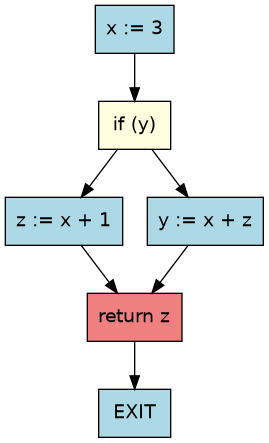
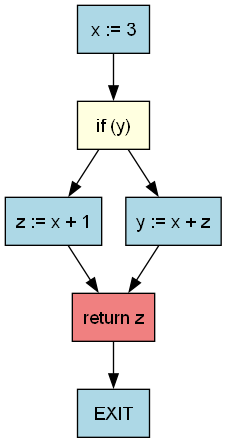
Pngs

diff --git a/src/Main.java b/src/Main.java
@@ -45,10 +45,10 @@ public class Main {
         CFGNode exitNode = new CFGNode("EXIT");
         for (int i = 1; i < result.length; i++) result[i].addEdge(exitNode);
 
-        // Exportar Grafo (Punto 1)
         PrintWriter pw = new PrintWriter(new OutputStreamWriter(new FileOutputStream("cfg.dot"), "UTF-8"));
         new DotExporter().export(entry, pw);
         pw.close();
+        generatePng("cfg.dot", "cfg.png");
 
         // --- PUNTO 2: Postdominadores ---
         List<CFGNode> allNodes = getAllNodes(entry);
@@ -56,21 +56,22 @@ public class Main {
         DominanceAnalysis analysis = new DominanceAnalysis();
         analysis.computePostDominators(allNodes, exitNode);
 
-        // --- PUNTO 2: Post dominadores---
         System.out.println("\n--- Postdominadores ---");
         for (CFGNode n : allNodes) {
             System.out.print("  pdom( " + n.label + " ) = { ");
             for (CFGNode pd : analysis.postDominators.get(n)) System.out.print(pd.label + "  ");
             System.out.println("}");
         }
+
         // --- PUNTO 3: Árbol de Postdominadores ---
         PostDominatorTree pdTree = new PostDominatorTree();
         pdTree.build(allNodes, analysis.postDominators, exitNode);
-        pdTree.print(allNodes); // Imprime en consola el IPDom de cada nodo
+        pdTree.print(allNodes);
 
         PrintWriter pw3 = new PrintWriter(new OutputStreamWriter(new FileOutputStream("postdom_tree.dot"), "UTF-8"));
         pdTree.exportDot(allNodes, exitNode, pw3);
         pw3.close();
+        generatePng("postdom_tree.dot", "postdom_tree.png");
 
         // --- PUNTO 4: Control Dependence Graph ---
         System.out.println("\n=== PUNTO 4: Control Dependence Graph ===");
@@ -81,8 +82,22 @@ public class Main {
         PrintWriter pw4 = new PrintWriter(new OutputStreamWriter(new FileOutputStream("cdg.dot"), "UTF-8"));
         cdg.exportDot(allNodes, pw4);
         pw4.close();
+        generatePng("cdg.dot", "cdg.png");
 
-        System.out.println("\n✅ Proceso completado. Archivos .dot generados.");
+        System.out.println("\n✅ Proceso completado. Archivos .dot y .png generados.");
+    }
+
+    private static void generatePng(String dotFile, String pngFile) {
+        try {
+            String dotExe = "C:\\Program Files\\Graphviz\\bin\\dot.exe";
+            ProcessBuilder pb = new ProcessBuilder(dotExe, "-Tpng", dotFile, "-o", pngFile);
+            pb.redirectErrorStream(true);
+            Process p = pb.start();
+            p.waitFor();
+            System.out.println("🖼  " + pngFile + " generado.");
+        } catch (Exception e) {
+            System.out.println("Error generando " + pngFile + ": " + e.getMessage());
+        }
     }
 
     private static List<CFGNode> getAllNodes(CFGNode start) {
